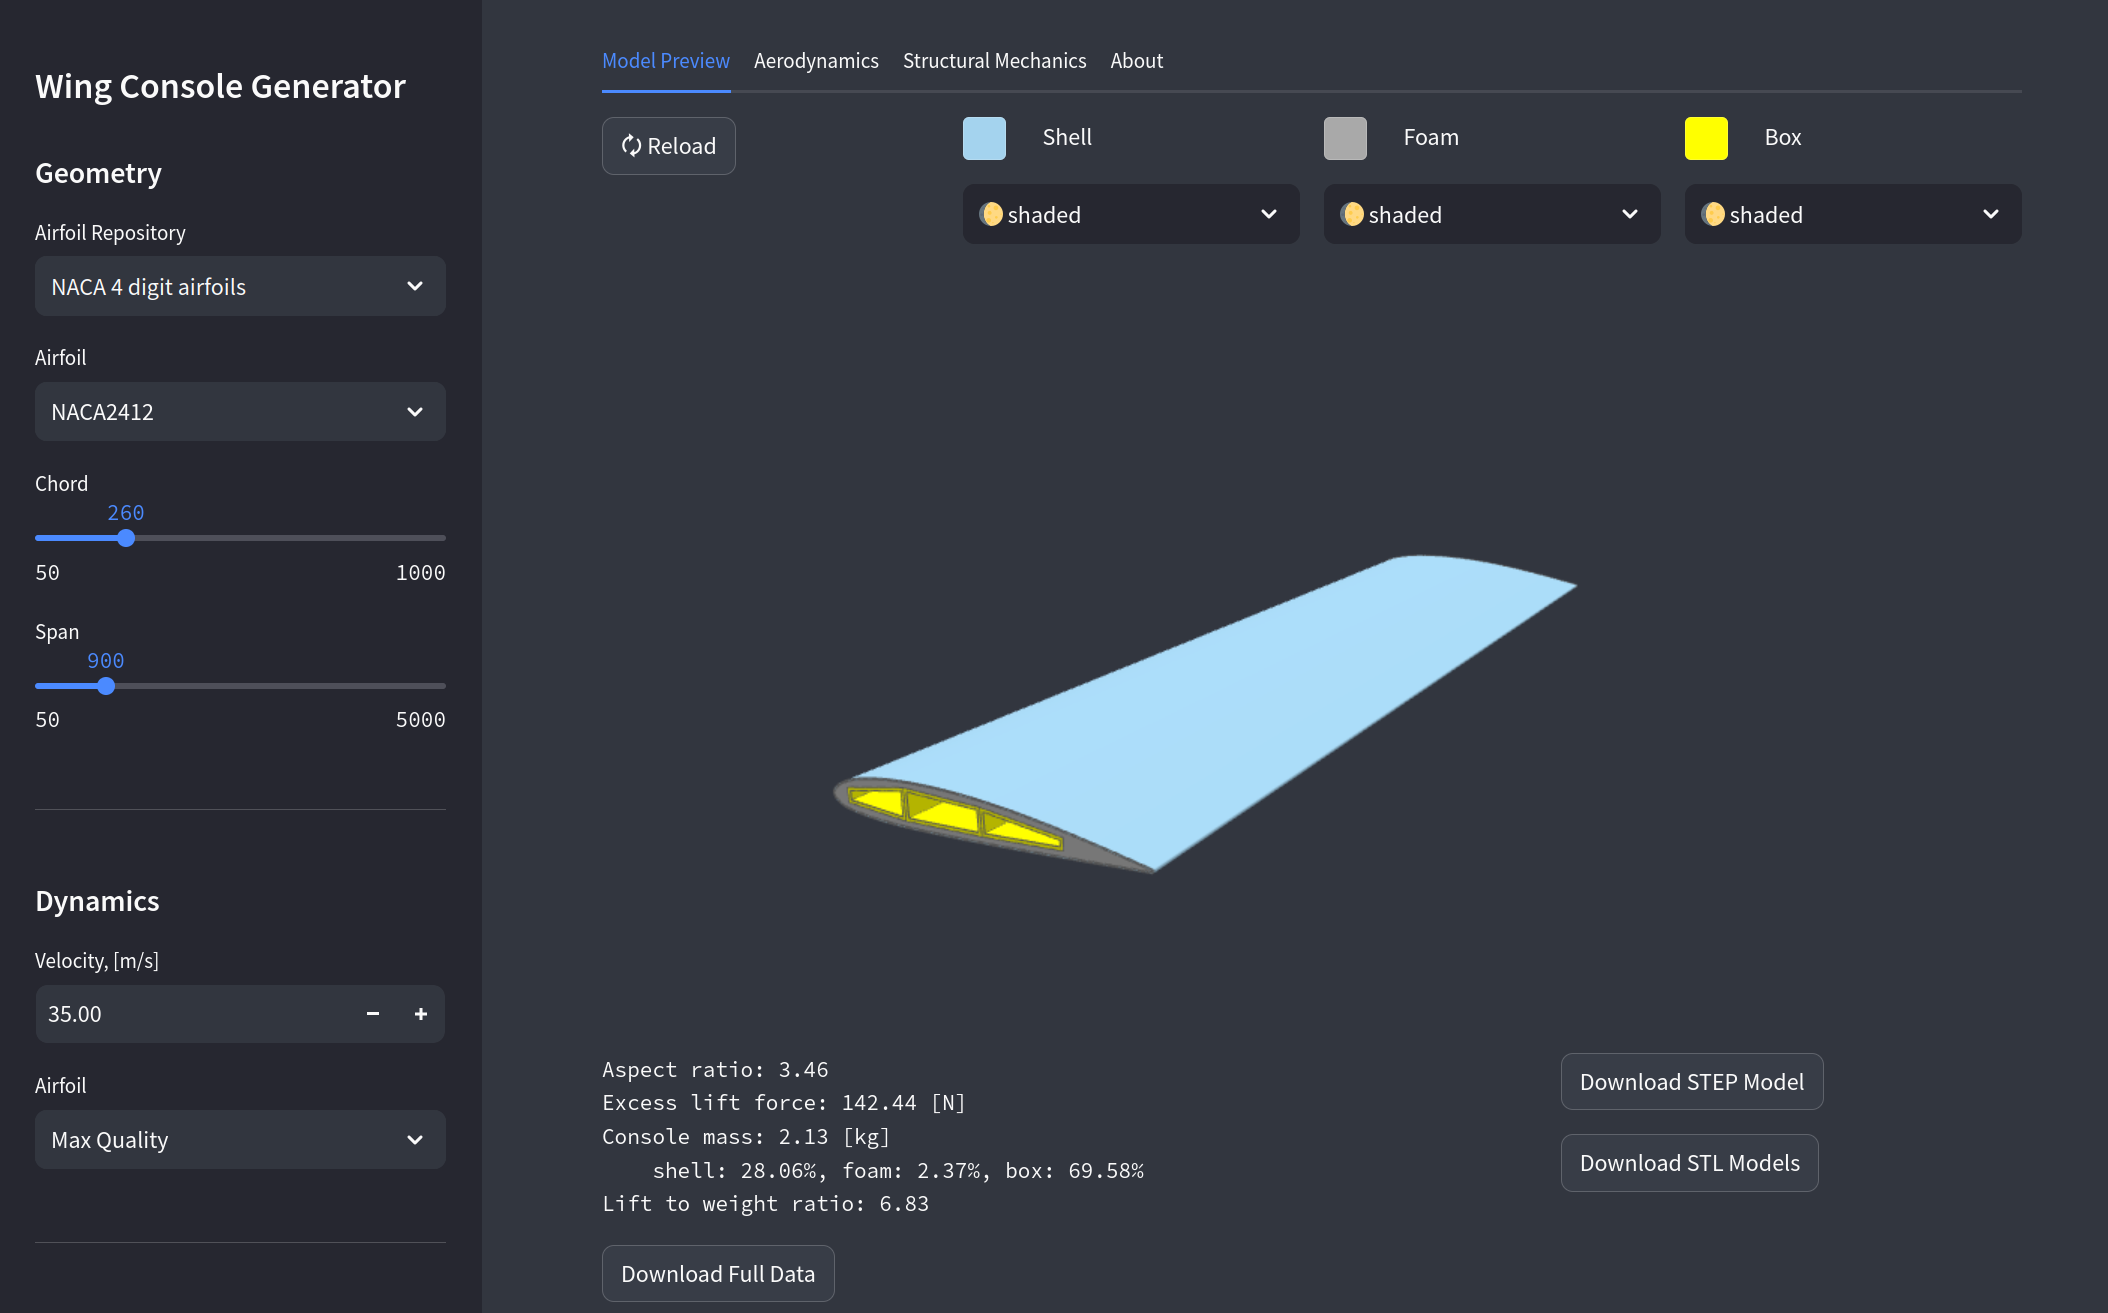
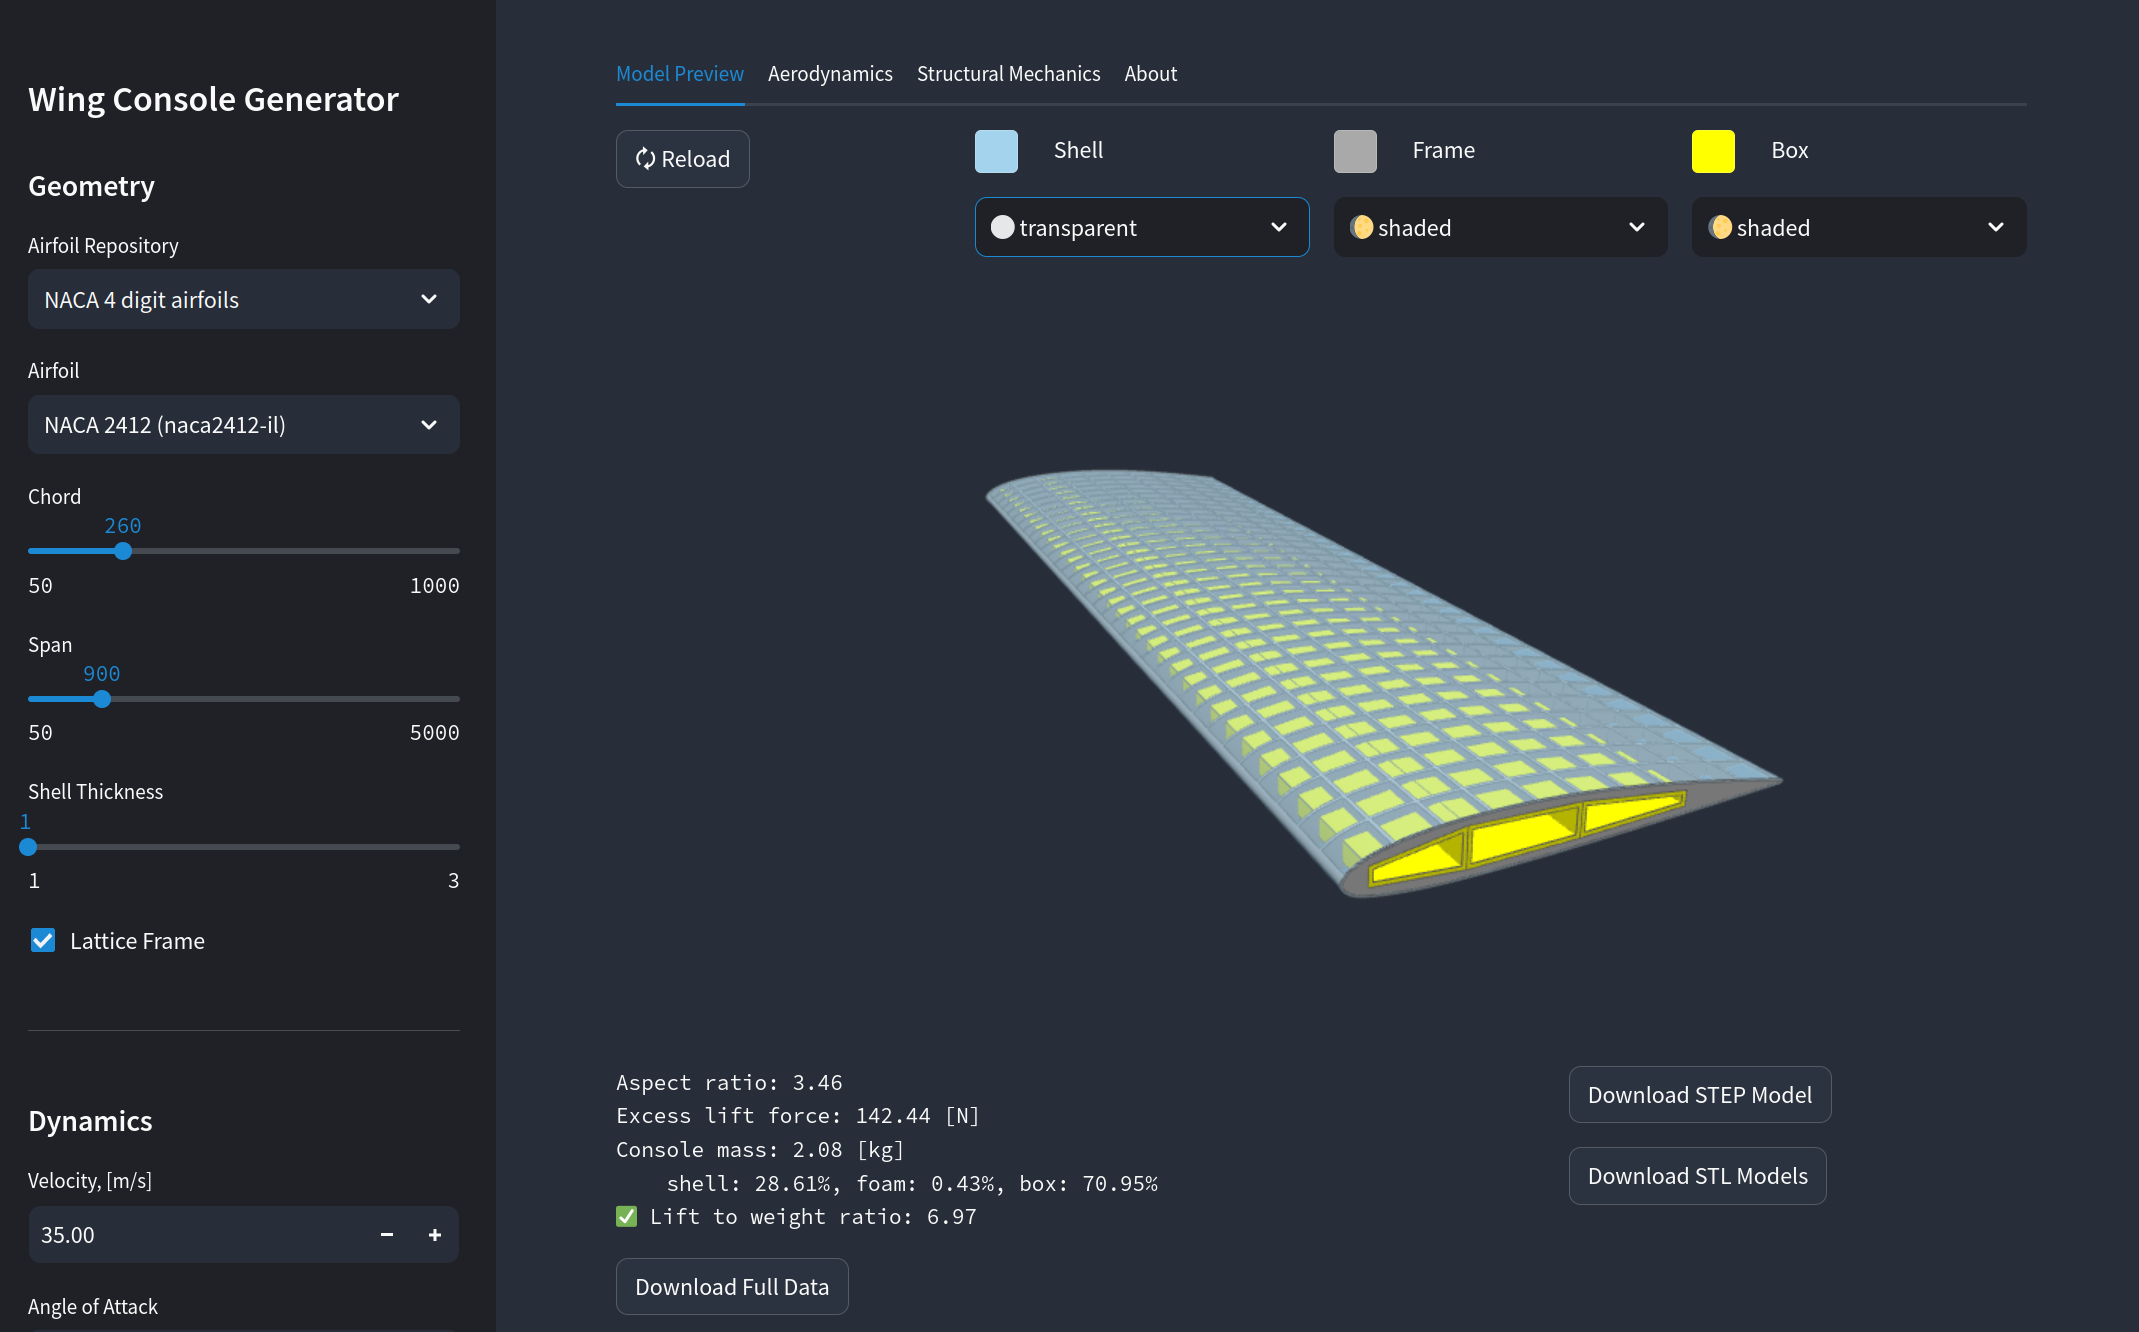
Add control over shell thickness and lattice frame

diff --git a/app/wingmodel/wing_model.py b/app/wingmodel/wing_model.py
@@ -37,7 +37,14 @@ class WingModelManager:
         velocity = dyn_params['velocity']
         self.fluid_props = FluidProperties(AIR_DENSITY, velocity, AIR_KINEMATIC_VISCOSITY)
 
-        hash_keys = [geom_params["airfoil_type"], geom_params["chord"], geom_params["span"]]
+        hash_keys = [
+            geom_params["airfoil_type"], 
+            geom_params["chord"], 
+            geom_params["span"], 
+            geom_params["shell_thickness"],
+            str(int(geom_params["lattice"]))
+        ]
+
         self.model_hash = "-".join(map(str, hash_keys))
         self.stl_path = os.path.join(STL_MODELS_DIR, f"wing-console-{self.model_hash}")
         if not os.path.isdir(self.stl_path):
@@ -149,9 +156,12 @@ class WingModelManager:
     def generate_cad_model(self, geom_params):
         chord = self.input_params["chord"]
         span = self.input_params["span"]
+        shell_thickness = self.input_params["shell_thickness"]
+        lattice = self.input_params["lattice"]
         airfoil_section = AirfoilSection(self.airfoil, chord=chord)
-        cad_model = RectangularWingConsole(airfoil_section, length=span, 
-            min_length=SPAN_MIN, max_length=SPAN_MAX, min_chord=CHORD_MIN, max_chord=CHORD_MAX
+        cad_model = RectangularWingConsole(airfoil_section, length=span,
+            min_length=SPAN_MIN, max_length=SPAN_MAX, min_chord=CHORD_MIN, max_chord=CHORD_MAX,
+            shell_thickness=shell_thickness, make_lattice=lattice
         )
 
         return cad_model

diff --git a/app/views/layout.py b/app/views/layout.py
@@ -28,6 +28,8 @@ def build_toolbar(airfoils_data):
         geom_params["airfoil_type"] = st.selectbox("Airfoil", airfoil_types, index=airfoil_ind)
         geom_params["chord"] = st.slider("Chord", min_value=CHORD_MIN, max_value=CHORD_MAX, value=CHORD_DEFAULT, step=5)
         geom_params["span"] = st.slider("Span", min_value=SPAN_MIN, max_value=SPAN_MAX, value=SPAN_DEFAULT, step=5)
+        geom_params["shell_thickness"] = st.slider("Shell Thickness", min_value=1, max_value=3, value=1, step=1)
+        geom_params['lattice'] = st.checkbox('Lattice Frame')
         st.divider()
 
         st.markdown("## Dynamics")
@@ -36,7 +38,7 @@ def build_toolbar(airfoils_data):
             "Velocity, [m/s]", min_value=1.0, max_value=100.0, 
             value=35.0, step=1.0
         )
-        dyn_params["aoa_type"] = st.selectbox("Airfoil", ["Max Quality", "Max Lift", "Min Drag"])
+        dyn_params["aoa_type"] = st.selectbox("Angle of Attack", ["Max Quality", "Max Lift", "Min Drag"])
 
         st.divider()
         st.markdown("## Material Properties")

diff --git a/app/views/cadmodel.py b/app/views/cadmodel.py
@@ -95,7 +95,7 @@ def _model_display_options():
     with foam_col:
         col1, col2 = st.columns([2,8])
         with col2:
-            st.markdown("Foam")
+            st.markdown("Frame")
         with col1:
             colors["foam"] = st.color_picker('Foam Color', MODEL_COLORS['foam'], label_visibility="collapsed")
         render_type["foam"] = st.selectbox("Foam Display", options, 
